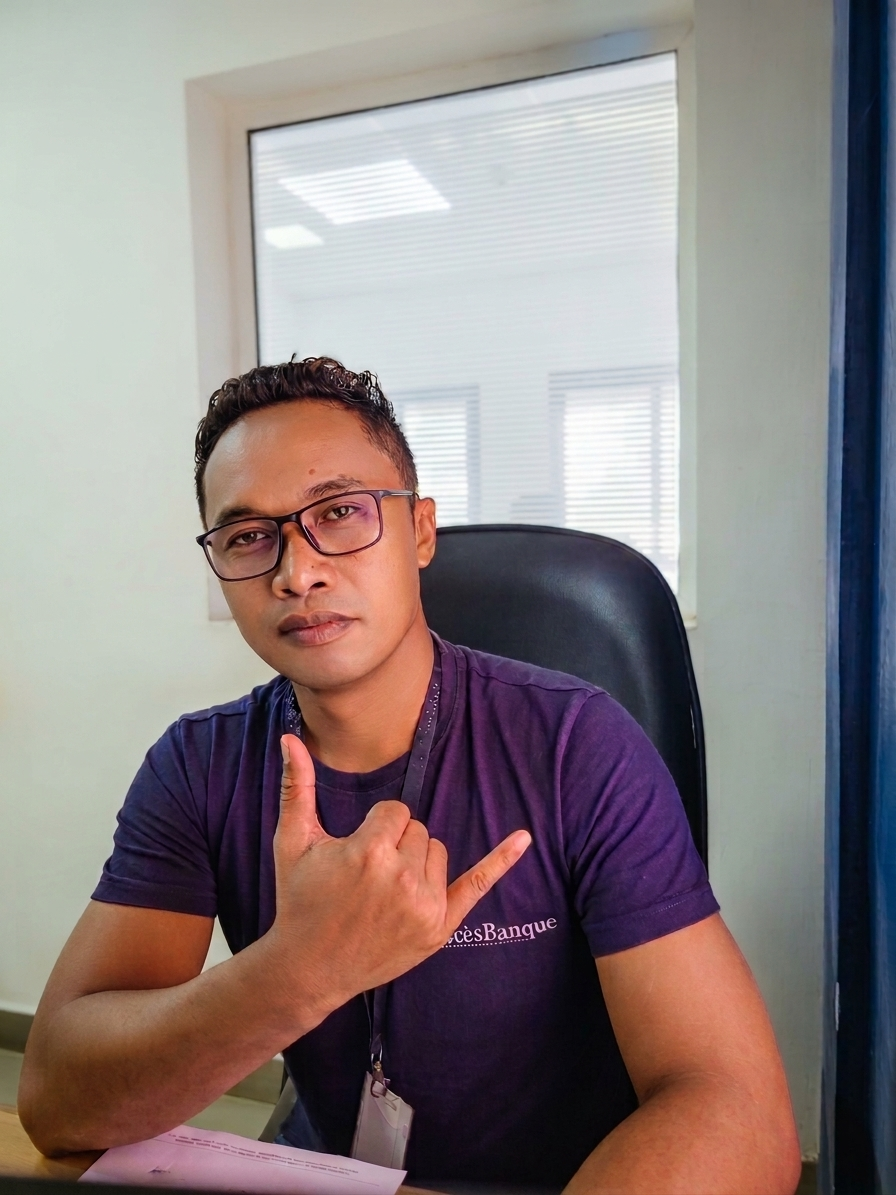
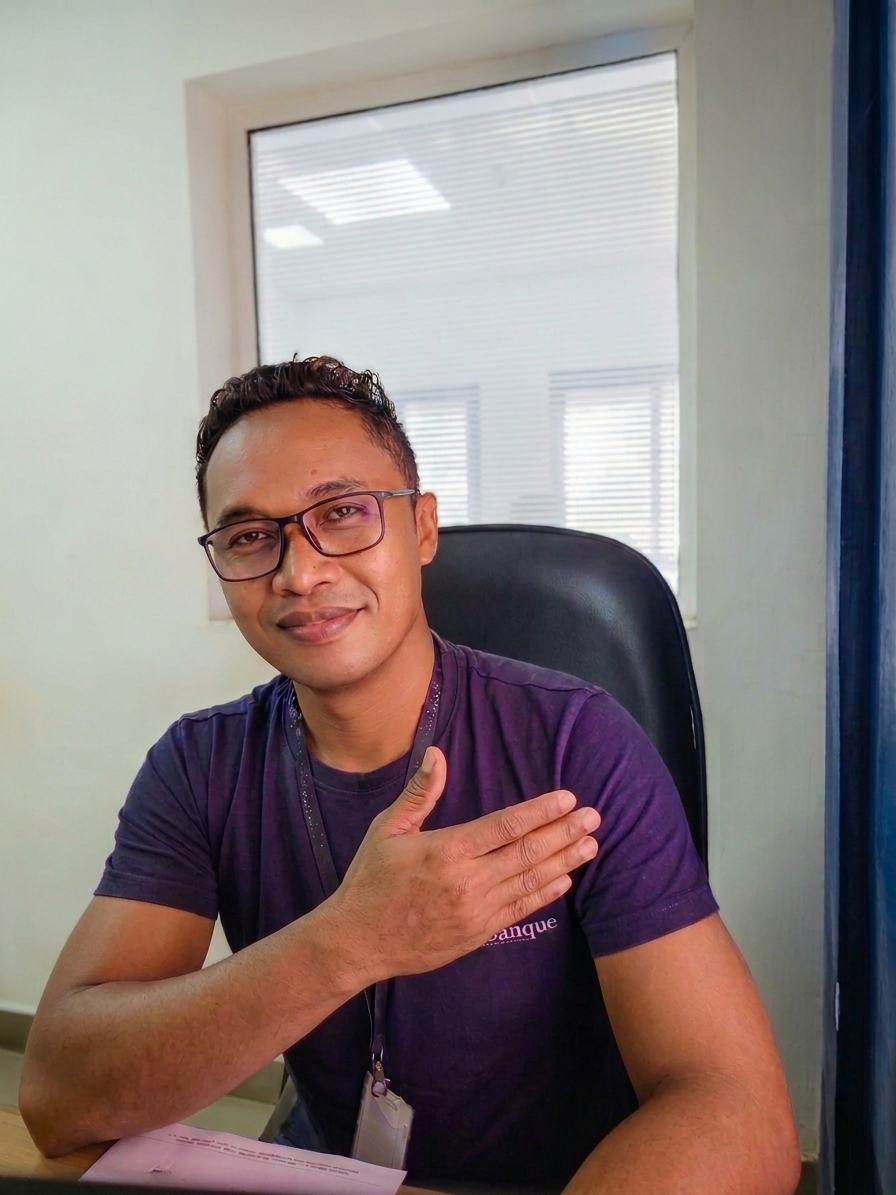
fix/modification photo de profile, modification page about.html

diff --git a/site/fr/about.html b/site/fr/about.html
@@ -55,7 +55,7 @@
 			<div>
 				<p class="eyebrow">À propos</p>
 				<h1 id="about-title">Derrière les données, un analyste à votre écoute</h1>
-				<p class="lead">Data Analyst Freelance basé à Toamasina, j'aide les PME et startups à transformer leurs données brutes en décisions concrètes — dashboards clairs, analyses actionnables, zéro jargon.</p>
+				<p class="lead">Data Analyst Freelance basé à Toamasina, j'aide les PME et startups à transformer leurs données brutes en décisions concrètes — dashboards clairs, analyses actionnables, zéro jargon. RAZANAKOTO Lovatahiana Nomenjanahary, EAST COAST MADAGASCAR.</p>
 				<p class="reassurance">J'accompagne les entreprises en Allemagne, France et Royaume-Uni. Langues de travail : FR, DE, EN.</p>
 			</div>
 			<figure class="hero-note">
